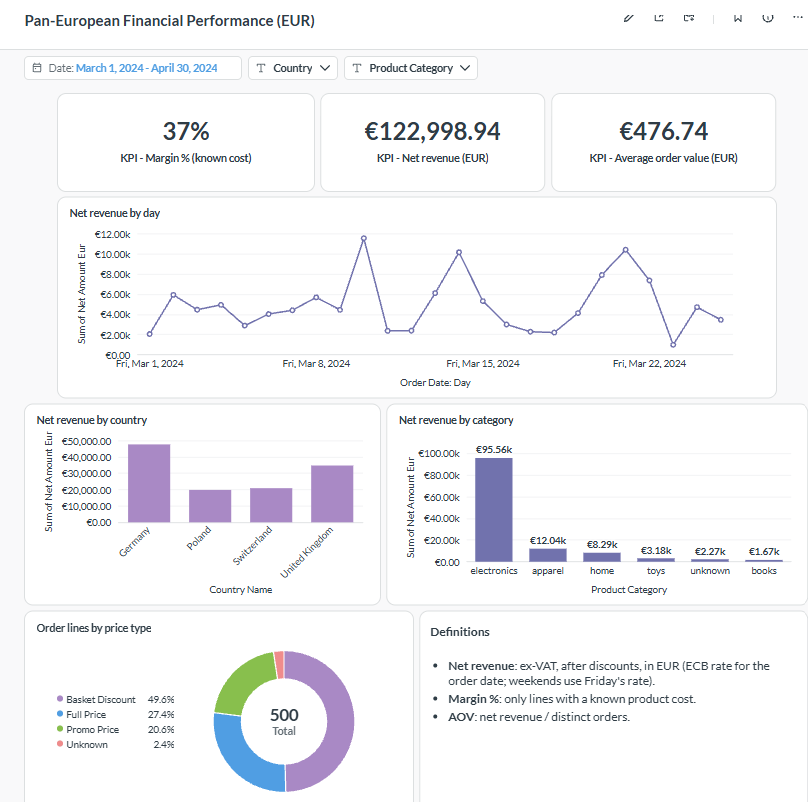
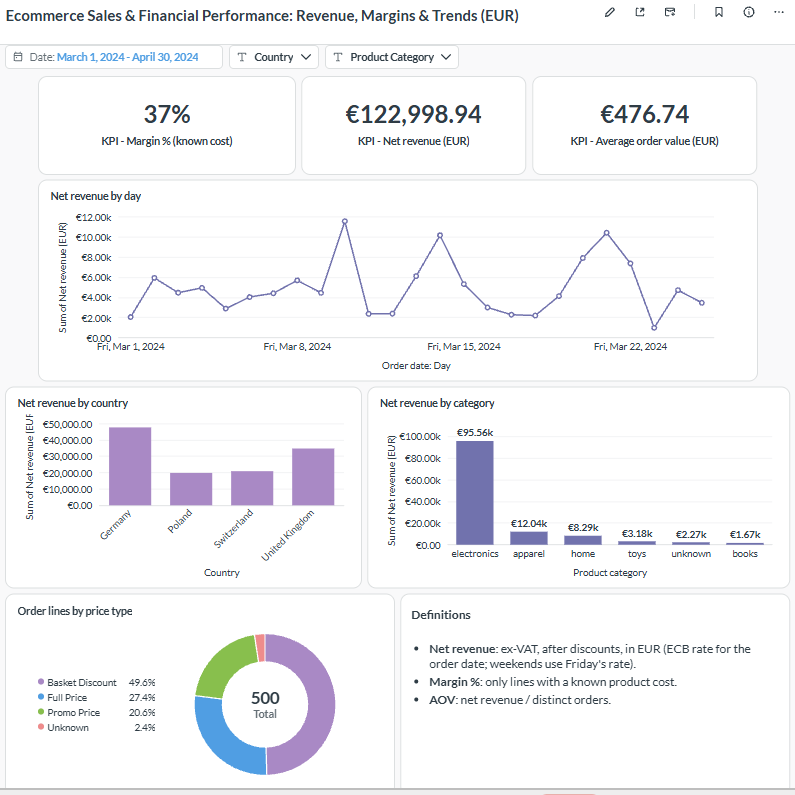
Restored old readme , updated comments and dashboard titles and deleted a junk file

diff --git a/airflow/dags/ecommerce_dbt_dag.py b/airflow/dags/ecommerce_dbt_dag.py
@@ -60,7 +60,6 @@ with DAG(
     dbt_deps = dbt_task("dbt_deps", "deps")
     dbt_run_staging = dbt_task("dbt_run_staging", "run --select staging")
     # The snapshot reads a staging view and feeds the pricing model,
-    # so it must sit between staging and intermediate.
     dbt_snapshot = dbt_task("dbt_snapshot", "snapshot")
     dbt_run_intermediate = dbt_task("dbt_run_intermediate", "run --select intermediate")
     dbt_run_marts = dbt_task("dbt_run_marts", "run --select marts")

diff --git a/README.md b/README.md
@@ -1,278 +1,16 @@
-# European Retail Analytics & Financial Reporting Layer
+Business Problem & Context
+Domain: Cross-Border E-Commerce & Retail Finance
+Markets: Germany (DE), United Kingdom (UK), Switzerland (CH), Poland (PL)
 
-# E-commerce Revenue & Margin Pipeline
+In multi-market retail, regional performance tracking is routinely distorted by disconnected financial rules: local managers evaluate gross commercial revenue in regional currencies (EUR, GBP, CHF, PLN), while central leadership reports net financial performance in EUR.
 
-**One net-revenue number across four markets (DE, UK, CH, PL): an end-to-end analytics engineering project with dbt, Snowflake, Airflow, MetricFlow and Metabase.**
+Compounded by unbridged foreign exchange gaps over non-trading days, dynamic point-in-time promotional markdowns, and time-varying regional VAT jurisdictions, this operational divergence drives a recurring monthly misalignment of hundreds of thousands of euros between regional markets and HQ.
 
-![Ecommerce Sales & Financial Performance dashboard](docs/dashboards/01_executive_dashboard.png)
+Objective
+This platform engineers a unified, audit-ready data layer in dbt that:
 
-> **Sample data:** 500 synthetic order lines for Germany, the United Kingdom, Switzerland and Poland, 1-25 March 2024. No real company data.
-
-## The business problem
-
-Local country managers report sales in their **local currency (EUR, GBP, CHF, PLN) including local taxes**. Berlin HQ reports everything in **EUR, net of VAT**. Prices change daily with promotions, exchange rates move constantly, and the two views drift apart by large amounts every month.
-
-This project builds the data layer that makes both views agree: a single, tested definition of **net revenue and margin in EUR**, traceable from raw data to the dashboard.
-
-## At a glance
-
-- **5 raw sources** with different shapes: an event stream, CDC, a mutable table with no history, a weekday-only FX feed and a static VAT table.
-- **5 staging, 4 intermediate and 6 mart models**, one SCD Type 2 snapshot, a star schema and a flat reporting table.
-- **190+ automated checks:** data tests with explicit error/warn severity, custom singular tests and 12 unit tests on the trickiest business rules.
-- **A semantic layer** (MetricFlow) with 10 governed metrics.
-- **Orchestration** with Airflow (Docker), running the pipeline daily after the ECB publishes its rates.
-- **Two Metabase dashboards** on a read-only role, with the data dictionary managed as code from dbt.
-- **Reconciled end to end:** the same net revenue figure appears in Snowflake, MetricFlow and Metabase.
-
-## Architecture
-
-```mermaid
-flowchart LR
-    subgraph Sources["Raw sources"]
-        S1["order_items (Kafka)"]
-        S2["products (CDC)"]
-        S3["listing_prices (mutable)"]
-        S4["exchange_rates (ECB)"]
-        S5["vat_rules (ERP)"]
-    end
-    subgraph SF["Snowflake"]
-        RAW["RAW_* schemas"] --> DBT["dbt: staging, intermediate, snapshot, marts"]
-    end
-    Sources --> RAW
-    AF["Airflow (Docker)"] -. "daily 17:30 Berlin" .-> DBT
-    DBT --> ML["MetricFlow semantic layer"]
-    DBT --> MB["Metabase dashboards (read-only role)"]
-```
-
-## Data lineage
-
-```mermaid
-flowchart LR
-    subgraph stg["Staging (views)"]
-        a1["stg_orders__order_items"]
-        a2["stg_catalog__products"]
-        a3["stg_pricing__listing_prices"]
-        a4["stg_finance__exchange_rates"]
-        a5["stg_tax__vat_rules"]
-    end
-    snap[["snap_listing_prices (SCD2)"]]
-    subgraph int["Intermediate (views)"]
-        i1["int_finance__exchange_rates_daily"]
-        i2["int_orders__order_items_eur"]
-        i3["int_orders__order_items_net"]
-        i4["int_orders__order_items_pricing"]
-    end
-    subgraph marts["Marts (tables)"]
-        f["fct_order_items"]
-        d1["dim_products"]
-        d2["dim_countries"]
-        d3["dim_date"]
-        r["rpt_order_items"]
-    end
-    a4 --> i1
-    a1 --> i1
-    a1 --> i2
-    i1 --> i2
-    i2 --> i3
-    a2 --> i3
-    a5 --> i3
-    a3 --> snap
-    snap --> i4
-    i3 --> i4
-    a2 --> i4
-    i3 --> f
-    i4 --> f
-    a2 --> d1
-    a1 --> d1
-    a5 --> d1
-    a5 --> d2
-    i1 --> d3
-    f --> r
-    d1 --> r
-    d2 --> r
-    d3 --> r
-```
-
-## Tech stack
-
-| Layer | Tools |
-|---|---|
-| Warehouse | Snowflake |
-| Transformation | dbt Core 1.8, dbt-snowflake, `dbt_utils` |
-| Semantic layer | MetricFlow (dbt-metricflow) |
-| Orchestration | Apache Airflow 2.10 in Docker (Postgres, LocalExecutor) |
-| BI | Metabase (Docker), `dbt-metabase` for the data dictionary |
-| Quality | dbt data tests, singular tests, unit tests |
-| Version control | Git, GitHub |
-
-## Data model
-
-| Layer | Models | Purpose |
-|---|---|---|
-| **Staging** | `stg_orders__order_items`, `stg_catalog__products`, `stg_pricing__listing_prices`, `stg_finance__exchange_rates`, `stg_tax__vat_rules` | rename, cast, clean strings. No business logic |
-| **Snapshot** | `snap_listing_prices` | SCD Type 2 history of a table that overwrites in place at the source |
-| **Intermediate** | `int_finance__exchange_rates_daily` | gapless daily FX rates (date spine, forward-fill) |
-| | `int_orders__order_items_eur` | order lines converted to EUR |
-| | `int_orders__order_items_net` | VAT time-travel join and net revenue |
-| | `int_orders__order_items_pricing` | historical list price, discount depth, margin, price type |
-| **Marts** | `fct_order_items` | fact table, one row per order line |
-| | `dim_products`, `dim_countries`, `dim_date` | dimensions (star schema) |
-| | `rpt_order_items` | flat table for BI tools |
-| | `metricflow_time_spine` | calendar for the semantic layer |
-
-## Key design decisions
-
-1. **Net revenue is defined once:** `(gross - discount) / (1 + VAT rate)` in EUR, where gross and discount are tax-inclusive. Every report uses this definition.
-2. **Exchange rates are gapless.** The ECB publishes weekdays only, so a date spine carries the last published rate over weekends and holidays. Each line records the rate's source date and a carried-forward flag. A non-EUR line with no rate stays `NULL` instead of silently defaulting to 1.0.
-3. **VAT uses a time-travel join** on country, category and order date, so a rate change applies from the right day. A missing rule is treated as 0% and flagged. Revenue is never dropped.
-4. **Price history is rebuilt with a snapshot.** The pricing service overwrites in place, so a snapshot keeps every version. Orders join to the version valid at order time using half-open windows `[valid_from, valid_to)`. Orders older than the first recorded version fall back to the earliest one and are flagged as a history gap.
-5. **Known data gaps are flagged, not hidden.** Missing VAT rules, missing costs, unlisted products and orphan product IDs carry boolean flags into the marts and onto a data-quality dashboard.
-6. **Orphan products don't lose revenue.** `dim_products` adds inferred members for product IDs that appear in orders but not in the catalog, so an inner join in a BI tool can't drop them.
-7. **Margin is honest.** Lines without a known cost would show margin equal to revenue, so margin % is computed over known-cost lines only, in both the semantic layer and the dashboard.
-8. **Tests encode severity.** Structural rules (keys, valid values, amounts) are errors. Known data gaps are warnings, with an expected count, so the build stays green while the problem stays visible.
-9. **Business logic is unit-tested** with mocked inputs: weekend fill, VAT boundary dates, snapshot window edges, history-gap fallback and flag precedence.
-10. **Least privilege for BI.** Metabase connects as a dedicated user whose role can only read the marts schema.
-11. **Secrets stay out of Git.** Credentials live in `.env` files and `profiles.yml` outside the repository, and containers read them from environment variables.
-
-## Edge cases covered (in the sample data)
-
-| Edge case | Order lines |
-|---|---|
-| EUR orders (no FX row, rate 1.0) | 155 |
-| Weekend orders (rate carried forward from the last published day) | 121 |
-| Lines priced on a carried-forward FX rate (non-EUR) | 85 |
-| `NULL` discount | 70 |
-| No known product cost | 71 (50 `NULL` costs + 21 orphan products) |
-| No matching VAT rule | 77 |
-| Orphan product IDs (not in the catalog) | 21 |
-| Orders before the first recorded price version (history gap) | 54 |
-| CH VAT rate change on 2024-03-15 (synthetic, for time-travel testing) | 46 before, 27 after |
-
-## Data quality
-
-- **Data tests:** uniqueness, not-null, relationships, accepted values, reconciliation between models (for example, the fact table must match the net model row for row).
-- **Singular tests:** VAT validity windows must not overlap, snapshot versions must not overlap, and the price version used must be valid at order time.
-- **Unit tests (12):** mocked inputs for the date spine, EUR conversion, VAT and pricing logic.
-- **Expected warnings:** the known gaps above (12 warnings in a full build, 0 errors).
-
-## Reconciliation
-
-| Figure | Snowflake | MetricFlow | Metabase |
-|---|---|---|---|
-| Net revenue (EUR) | 122,998.94 | 122,998.94 | 122,998.94 |
-| Gross revenue (EUR) | 147,220.26 | 147,220.26 | |
-| Margin (EUR) | 52,015.91 | 52,015.91 | |
-| Average order value (EUR) | 476.74 | 476.74 | 476.74 |
-| Margin % (known-cost lines) | 0.37 | 0.37 | 37% |
-
-## Semantic layer
-
-Ten metrics are defined once in dbt (MetricFlow) and queried by name:
-
-`gross_revenue`, `net_revenue`, `total_discounts`, `vat_collected`, `margin`, `units_sold`, `total_orders`, `average_order_value`, `discount_rate`, `margin_pct`
-
-```powershell
-mf query --metrics net_revenue,average_order_value --group-by product__category
-mf query --metrics net_revenue --group-by metric_time__day
-```
-
-## Orchestration
-
-Airflow runs the pipeline daily at 17:30 Europe/Berlin, after the ECB publishes its rates. dbt runs in its own virtual environment inside the Airflow image, so the two sets of dependencies never conflict.
-
-| Order | Task | Why |
-|---|---|---|
-| 1 | `dbt deps` | install packages |
-| 2 | `dbt run --select staging` | refresh staging views |
-| 3 | `dbt snapshot` | reads a staging view and feeds the pricing model |
-| 4 | `dbt run --select intermediate` | business logic |
-| 5 | `dbt run --select marts` | fact, dimensions, reporting table |
-| 6 | `dbt test` | fails the run on errors |
-
-The DAG retries failed tasks twice, allows one active run at a time and calls a failure-alert hook (a logging stub, ready for email or Slack).
-
-## BI layer
-
-Two Metabase dashboards on `rpt_order_items`:
-
-- **Ecommerce Sales & Financial Performance: Revenue, Margins & Trends (EUR)** for leadership, with date, country and category filters.
-- **Ecommerce Data Quality: Fallbacks & Missing Data** for the data team.
-
-See [`bi/README.md`](bi/README.md) for setup, metric definitions and how the data dictionary is synced from dbt.
-
-## Repository structure
-
-```
-.
-├── models/
-│   ├── staging/          cleaned 1:1 views and their tests
-│   ├── intermediate/     business logic, tests and unit tests
-│   └── marts/            fact, dimensions, reporting table, semantic layer
-├── snapshots/            SCD2 on listing prices
-├── seeds/                synthetic raw data, one folder per source schema
-├── macros/               schema naming override
-├── tests/                singular tests
-├── airflow/              Dockerfile, compose file, DAG
-├── bi/                   Metabase stack, access script, sync script
-├── docs/dashboards/      screenshots
-├── packages.yml
-└── requirements.txt
-```
-
-## Getting started
-
-**Prerequisites:** Python 3.9+, Docker Desktop (for Airflow and Metabase), a Snowflake account with a database `ECOMMERCE_DB` and a warehouse.
-
-```powershell
-git clone https://github.com/LasyaMarella/ecommerce-analytics-pipeline-dbt.git
-cd ecommerce-analytics-pipeline-dbt
-python -m venv .venv
-.\.venv\Scripts\Activate.ps1
-pip install -r requirements.txt
-```
-
-Create `~/.dbt/profiles.yml` (outside the repo):
-
-```yaml
-ecommerce_project:
-  target: dev
-  outputs:
-    dev:
-      type: snowflake
-      account: <your-account-identifier>
-      user: <your-user>
-      password: "{{ env_var('SNOWFLAKE_PASSWORD') }}"
-      role: SYSADMIN
-      database: ECOMMERCE_DB
-      warehouse: COMPUTE_WH
-      schema: PUBLIC
-      threads: 4
-```
-
-Build everything (seeds, snapshot, models, tests):
-
-```powershell
-$env:SNOWFLAKE_PASSWORD = "<your-password>"
-dbt deps
-dbt build
-dbt docs generate
-dbt docs serve
-```
-
-Airflow and Metabase each have their own folder and instructions: see [`airflow/`](airflow/) and [`bi/README.md`](bi/README.md).
-
-## Roadmap
-
-- [x] Dimensional model, staging, intermediate, snapshot and marts
-- [x] Data tests, singular tests and unit tests
-- [x] Column-level documentation
-- [x] Semantic layer and metrics (MetricFlow)
-- [x] Airflow orchestration
-- [x] Metabase dashboards with a dbt-managed data dictionary
-- [ ] CI/CD with GitHub Actions (pull request checks, docs deployment)
-- [ ] AI assistant for natural-language questions over the metrics
-
-## About
-
-Built by **<your name>** as an end-to-end analytics engineering project.
-<LinkedIn URL> | <email>
+Normalizes multi-currency sales streams using daily ECB rate spines to close exchange rate reporting gaps.
+Preserves point-in-time catalog and promotional pricing history via SCD Type-2 snapshots to prevent margin drift.
+Reconciles dynamic regional VAT boundaries to isolate true net revenue and tax obligations.
+Delivers dimensional star-schema marts optimized for executive-level commercial reporting and audit compliance.
+Detailed architecture, data lineage, and testing documentation coming soon.
